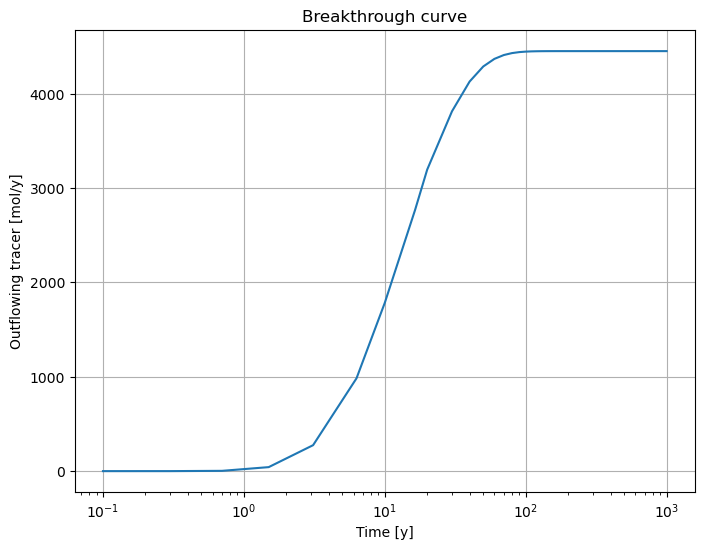
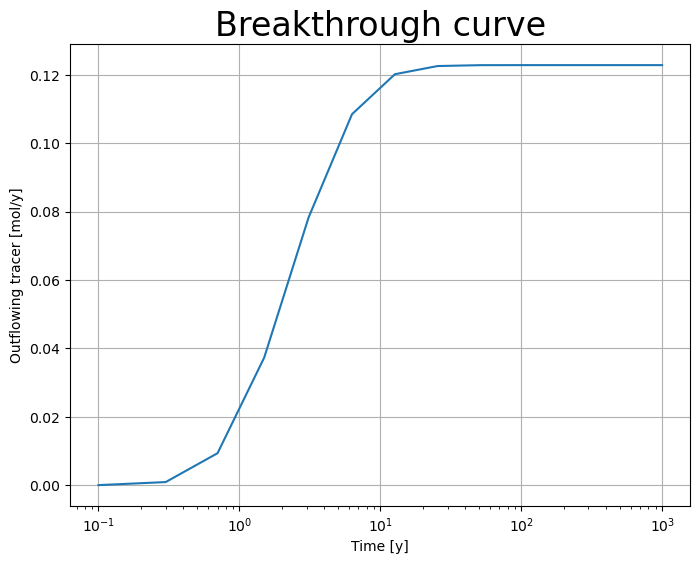
New code and image V6

Changed region(s): [[0.0, 0.0, 0.99, 0.9891], [0.51, 0.1236, 0.6, 0.1855], [0.72, 0.5873, 0.75, 0.6491]]

diff --git a/codes/dfnworks_sim_v6/TPL_example.py b/codes/dfnworks_sim_v6/TPL_example.py
@@ -40,8 +40,8 @@ DFN.add_fracture_family(shape="ell",
                         hy_variable='permeability',
                         hy_function='log-normal',
                         hy_params={
-                            "mu": 1e-1,
-                            "sigma": 1e-10
+                            "mu": 1e-10,
+                            "sigma": 0.01
                         })
 
 DFN.add_fracture_family(shape="ell",
@@ -58,8 +58,8 @@ DFN.add_fracture_family(shape="ell",
                         hy_variable='permeability',
                         hy_function='log-normal',
                         hy_params={
-                            "mu": 1e-1,
-                            "sigma": 1e-10
+                            "mu": 1e-10,
+                            "sigma": 0.01
                         })
 
 DFN.make_working_directory(delete=True)
